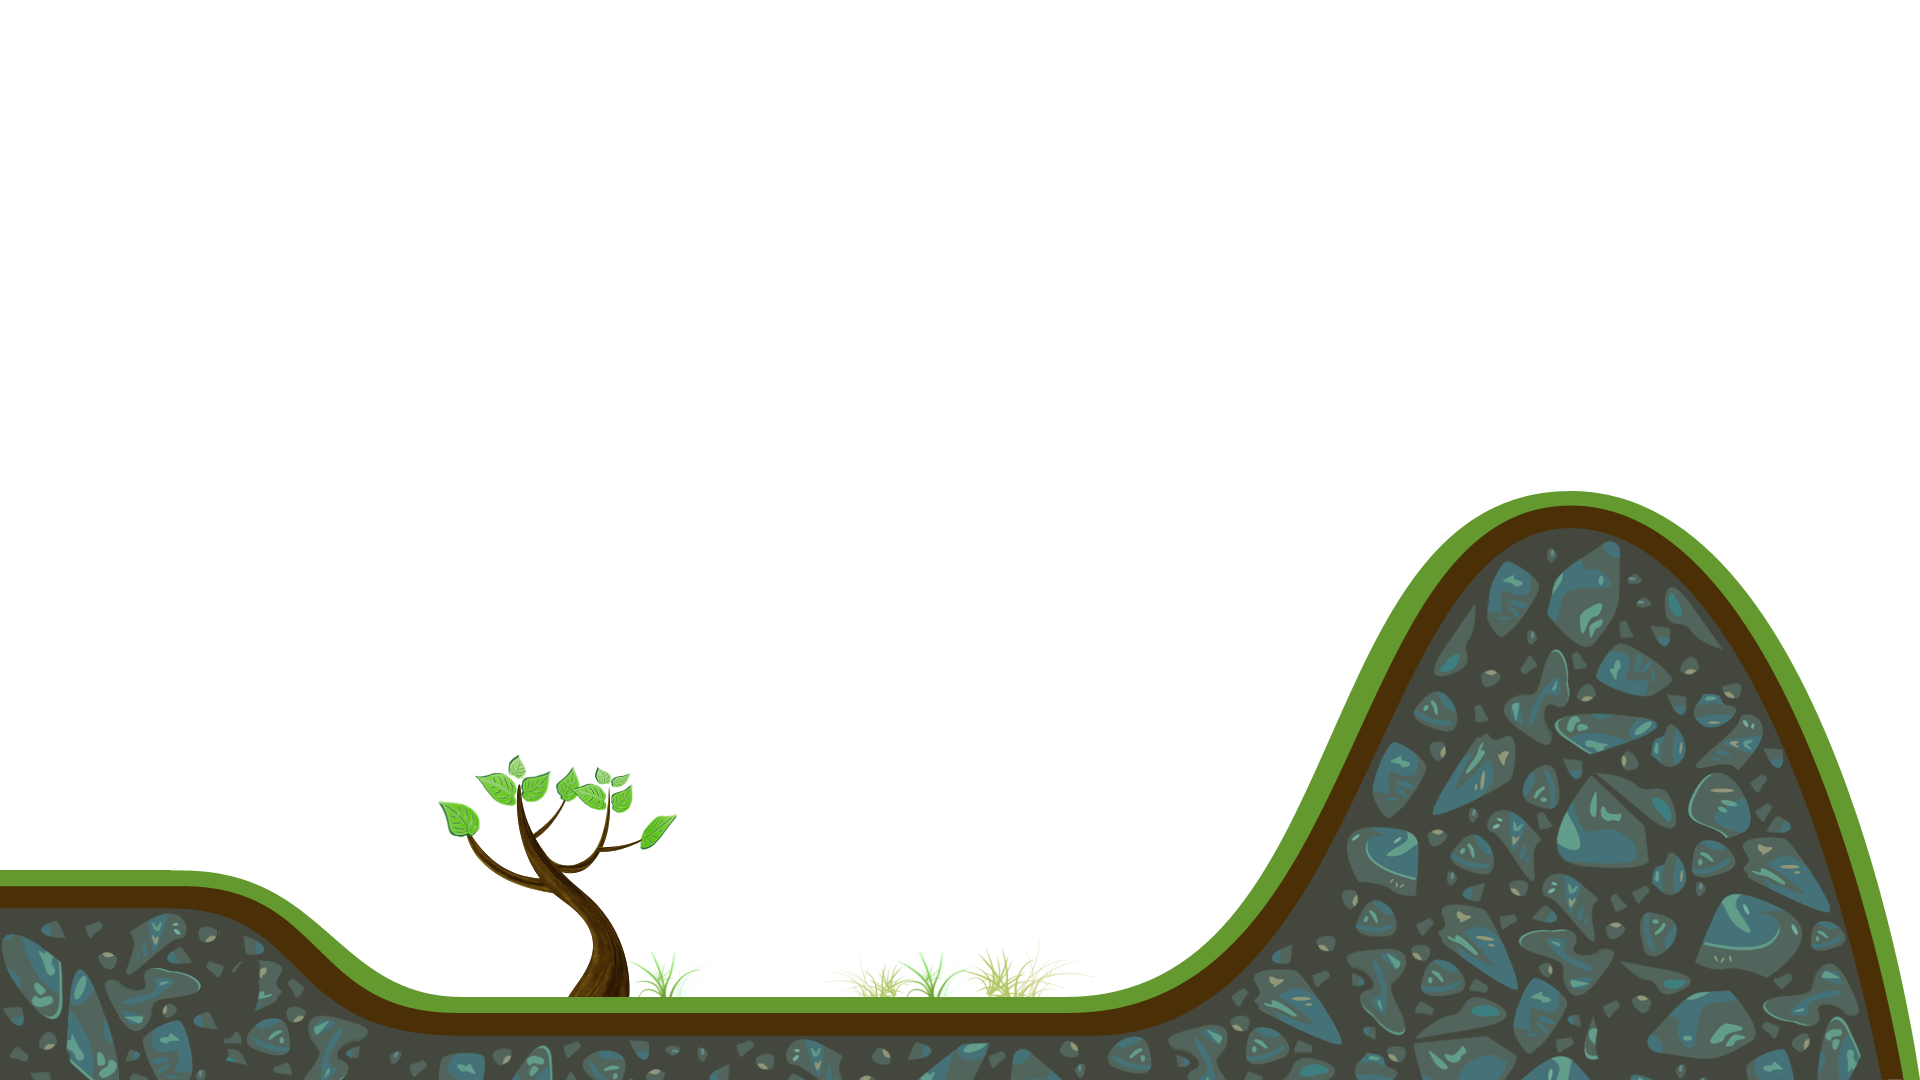
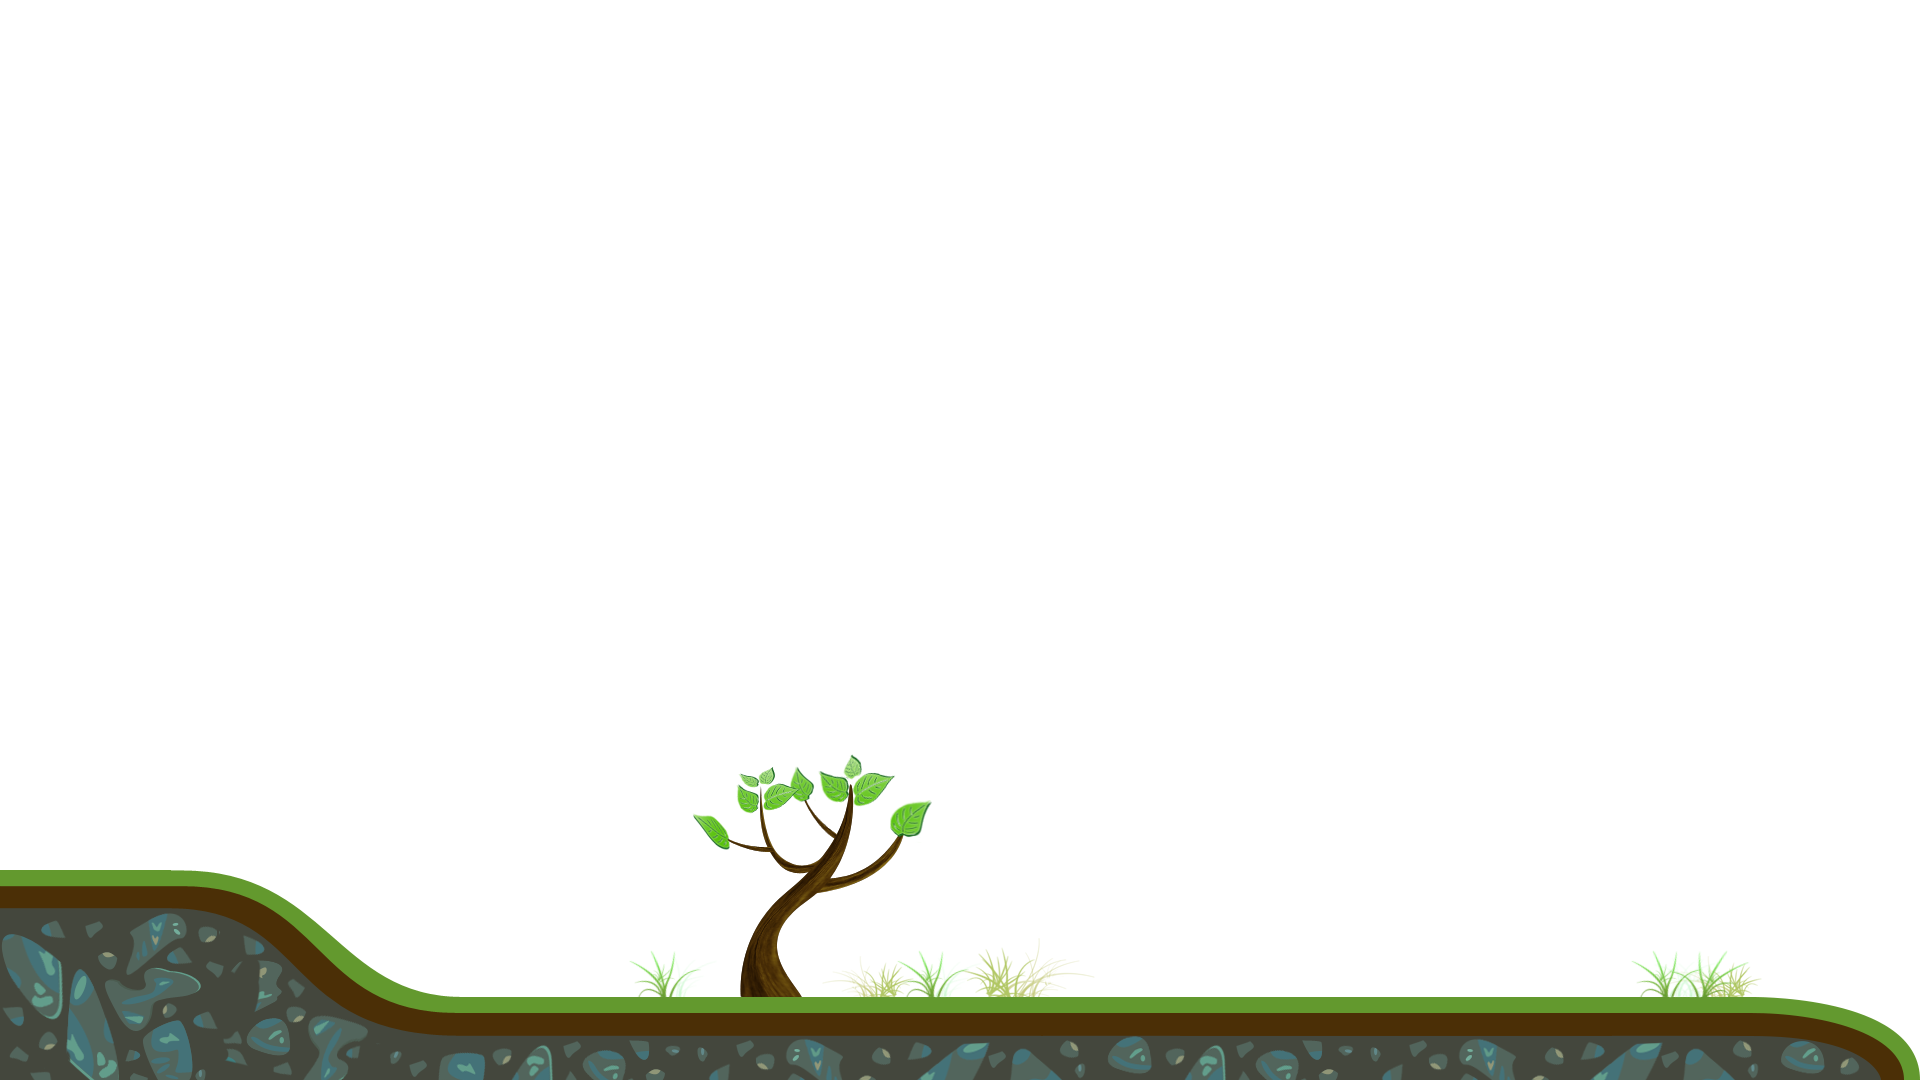
Fixes #21 . Fixed boss spawning by replace old mountain exit slice by a new flatter one

Changed region(s): [[0.5625, 0.4583, 1.0, 1.0], [0.2188, 0.7028, 0.5, 0.9472]]

diff --git a/Bullet-Inferno/src/se/dat255/bulletinferno/model/map/ObstacleDefinitionImpl.java b/Bullet-Inferno/src/se/dat255/bulletinferno/model/map/ObstacleDefinitionImpl.java
@@ -109,12 +109,11 @@ public enum ObstacleDefinitionImpl implements ObstacleDefinition {
 			}))),
 			
 	MOUNTAIN_8_GROUND(Arrays.asList(
-			PhysicsShapeFactory.getChainShape(new Vector2[] {new Vector2(16, 0), 
-				new Vector2(15.27f, 2.68f), new Vector2(14.63f, 3.91f), new Vector2(13.9f, 4.65f),
-				new Vector2(13.35f, 4.85f), new Vector2(12.78f, 4.85f), new Vector2(12.15f, 4.57f),
-				new Vector2(11.57f, 3.72f), new Vector2(10.52f, 1.54f), new Vector2(9.61f, 0.78f),
-				new Vector2(8.63f, 0.64f), new Vector2(3.37f, 0.73f), new Vector2(2.2f, 1.55f),
-				new Vector2(1.65f, 1.75f), new Vector2(0, 1.75f)
+			PhysicsShapeFactory.getChainShape(new Vector2[] { new Vector2(0, 1.75f),
+					new Vector2(1.65f, 1.75f), new Vector2(2.2f, 1.55f),
+					new Vector2(3.37f, 0.73f), new Vector2(3.8f, 0.69f),
+					new Vector2(14.62f, 0.69f), new Vector2(15.13f, 0.65f),
+					new Vector2(15.87f, 0.35f), new Vector2(16, 0)
 			}))),
 	FLAT_GROUND(PhysicsShapeFactory.getChainShape(new Vector2[] { 
 			new Vector2(0,0), new Vector2(16, 0)

diff --git a/Bullet-Inferno/src/se/dat255/bulletinferno/model/map/SliceDefinitionImpl.java b/Bullet-Inferno/src/se/dat255/bulletinferno/model/map/SliceDefinitionImpl.java
@@ -72,7 +72,7 @@ public enum SliceDefinitionImpl implements SliceDefinition {
 			placeObstacle(ObstacleDefinitionImpl.MOUNTAIN_8_GROUND, 0, 0),
 			placeObstacle(ObstacleDefinitionImpl.DEFAULT_TREE, 4.63f, 1.7f)),
 			Arrays.asList(
-				placeEnemy(EnemyDefinitionImpl.DRIPPER, 8.35f, 5.55f))
+				placeEnemy(EnemyDefinitionImpl.DRIPPER, 11f, 4.5f))
 		),
 	SIMPLE_GROUND(2f, 2f, 16f, Collections.<ObstaclePlacement>emptyList())
 	;

diff --git a/Bullet-Inferno/src/se/dat255/bulletinferno/controller/GameController.java b/Bullet-Inferno/src/se/dat255/bulletinferno/controller/GameController.java
@@ -246,10 +246,10 @@ public class GameController extends SimpleController {
 				Graphics.GAME_HEIGHT / 2);
 
 		// Render the game
-		//graphics.render();
+		graphics.render();
 		
 		// Debug render 
-		graphics.renderWithDebug(models.getPhysicsEnvironment());
+		//graphics.renderWithDebug(models.getPhysicsEnvironment());
 		
 		if (!gameOver && models.getPlayerShip().isDead()) {
 			gameOver();

diff --git a/Bullet-Inferno-desktop/src/se/dat255/bulletinferno/Main.java b/Bullet-Inferno-desktop/src/se/dat255/bulletinferno/Main.java
@@ -18,8 +18,8 @@ public class Main {
 		LwjglApplicationConfiguration cfg = new LwjglApplicationConfiguration();
 		cfg.title = "Bullet-Inferno";
 		cfg.useGL20 = true;
-		cfg.width = 800;
-		cfg.height = 450;
+		cfg.width = 1280;
+		cfg.height = 720;
 		
 		new LwjglApplication(new MasterController(), cfg);
 	}
